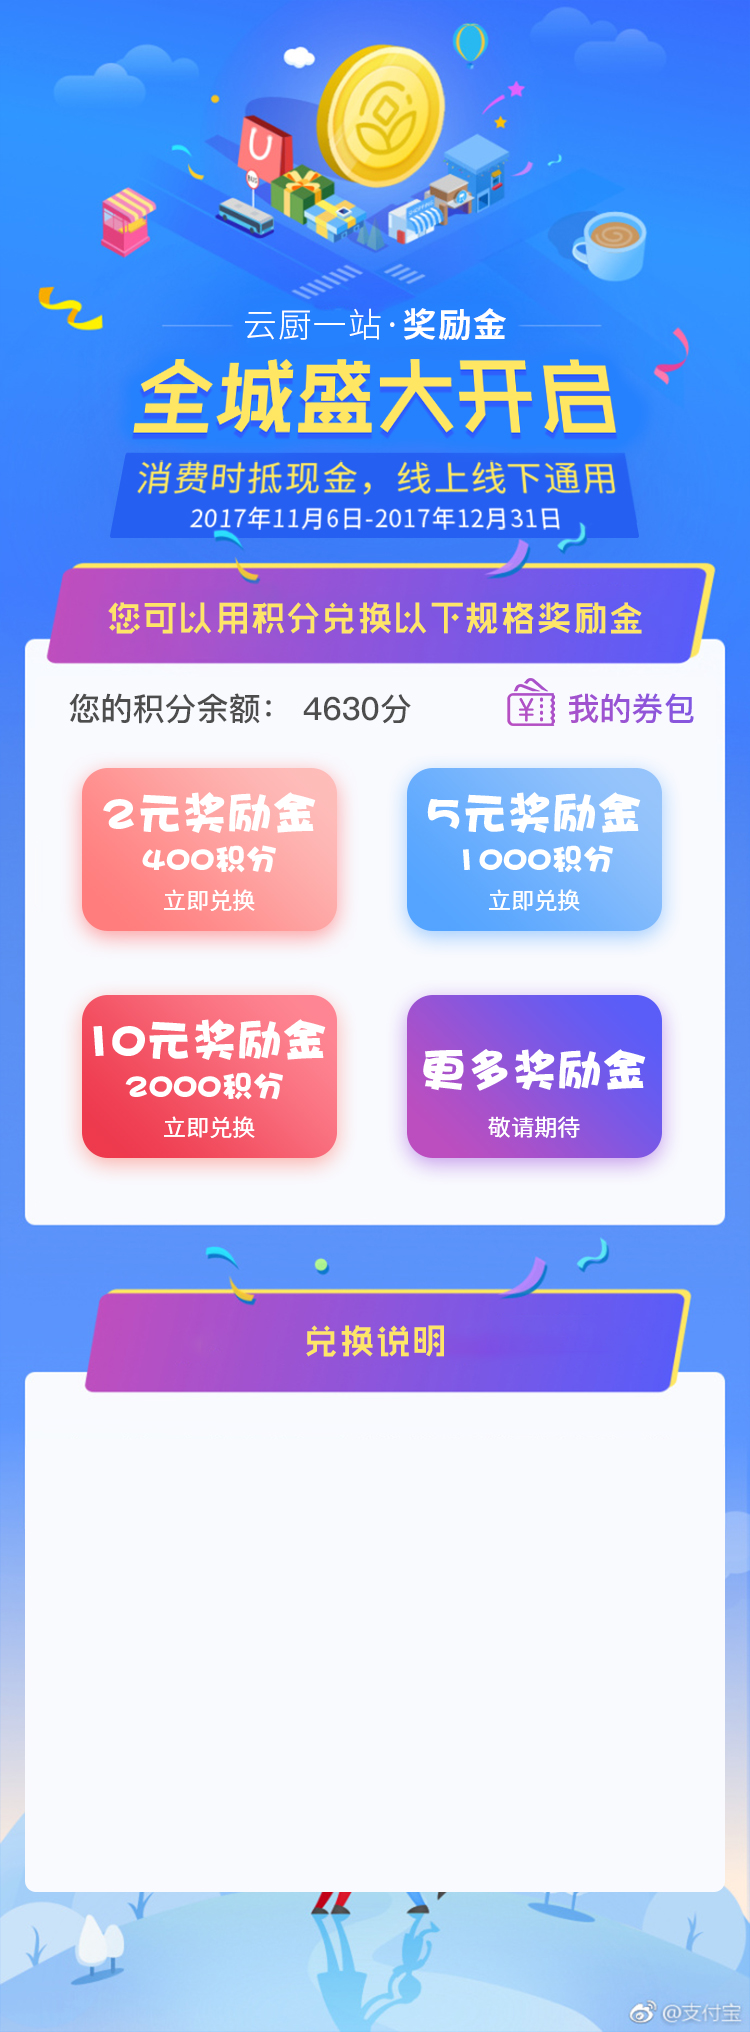
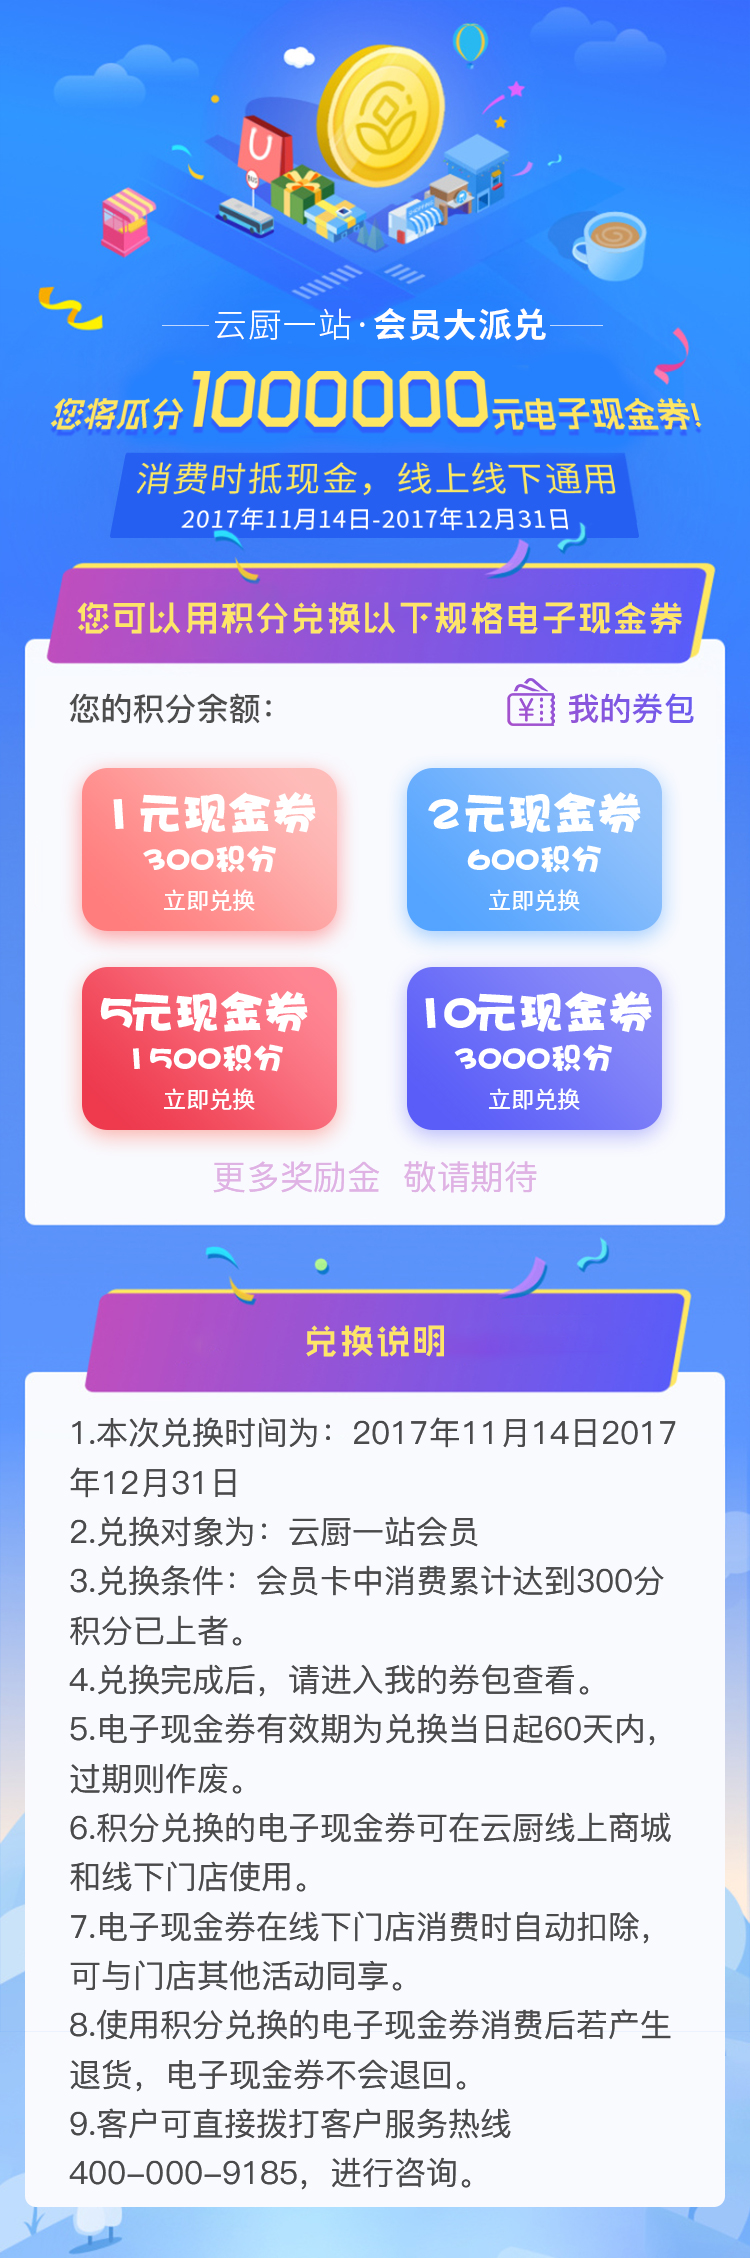
积分兑换

diff --git a/babuluo/web/app/marketing/coupon/rule/ruleList/index.html b/babuluo/web/app/marketing/coupon/rule/ruleList/index.html
@@ -15,6 +15,7 @@
                         </option>
                         <option class="nya-bs-option" value="1">减价</option>
                         <option class="nya-bs-option" value="2">打折</option>
+                        <option class="nya-bs-option" value="3">电子现金金</option>
 
                     </select>
                 </div> <!-- select-center  -->
@@ -49,9 +50,10 @@
                     </td><!--规格名称-->
                     <td ng-if="item['COUPON_RULE.TYPE']==1">减价</td> <!--规格类型-减-->
                     <td ng-if="item['COUPON_RULE.TYPE']==2">打折</td> <!--规格类型-折-->
+                    <td ng-if="item['COUPON_RULE.TYPE']==3">电子现金金</td> <!-- 电子现金金 -->
                     <td ng-bind="item['COUPON_RULE.INTRO']"></td> <!--规则描述-->
                     <td class="text-center">
-                        <span ng-if="item['COUPON_RULE.TYPE']==1">{{(item['COUPON_RULE.FACE_VALUE']/100).toFixed(2)}}元</span>
+                        <span ng-if="item['COUPON_RULE.TYPE']==1 || item['COUPON_RULE.TYPE']==3">{{(item['COUPON_RULE.FACE_VALUE']/100).toFixed(2)}}元</span>
                         <span ng-if="item['COUPON_RULE.TYPE']==2">{{(item['COUPON_RULE.FACE_VALUE']/10).toFixed(1)}}折</span>
                     </td> <!--面值-->
                     <td class="text-center">
@@ -110,6 +112,7 @@
                                     class="nya-bs-select form-control">
                                 <option class="nya-bs-option" value='1'>减价</option>
                                 <option class="nya-bs-option" value='2'>打折</option>
+                                <option class="nya-bs-option" value='3'>电子现金金</option>
                             </select>
                         </div>
                     </div>
@@ -127,7 +130,7 @@
                     <div class="form-group row">
                         <label class="col-md-3 control-label">
                             <span class="required"> 面值 </span>
-                            <span ng-bind="add['COUPON_RULE.TYPE']==1?'（元）':'（折）'"></span>
+                            <span ng-bind="add['COUPON_RULE.TYPE']==2?'（折）':'（元）'"></span>
                             <!--<span ng-if="mod['COUPON_RULE.TYPE']==2">（折）</span>-->
                         </label>
 
@@ -221,6 +224,7 @@
                                     class="nya-bs-select form-control">
                                 <option class="nya-bs-option" value='1'>减价</option>
                                 <option class="nya-bs-option" value='2'>打折</option>
+                                <option class="nya-bs-option" value='3'>电子现金金</option>
                             </select>
                         </div>
                     </div>
@@ -237,7 +241,7 @@
                     <div class="form-group row">
                         <label class="col-md-3 control-label">
                             <span class="required"> 面值 </span>
-                            <span ng-bind="mod['COUPON_RULE.TYPE']==1?'（元）':'（折）'"></span>
+                            <span ng-bind="mod['COUPON_RULE.TYPE']==2?'（折）':'（元）'"></span>
                             <!-- <span ng-if="mod['COUPON_RULE.TYPE']==1">（元）</span>
                              <span ng-if="mod['COUPON_RULE.TYPE']==2">（折）</span>-->
                         </label>

diff --git a/babuluo/web/h5/pages/home/index.html b/babuluo/web/h5/pages/home/index.html
@@ -137,7 +137,19 @@
      margin-top: -12px;  float: right;" ng-click="goSeckill(seckill)" >立即抢购</button>
         </div>
     </div>
-
+    
+    <!-- 活动专区 -->
+     <div class="item-title"  ng-if="activityList.length>0"    style="    font-size: 20px;line-height: 50px;margin-bottom: 0; text-align: center; height: 50px;">
+                <i class="icon-wrap icon-luwei" style="height: 20px;width: 20px; display: inline-block;    background: url('../../public/img/activity.png');background-size:100%" ></i>
+              
+                <span style="border-bottom: 1px solid rgb(245,169,24); padding: 0 15px 5px;    font-size: 20px;line-height: 50px;margin-bottom: 0;text-align: center; height: 50px;">活动专区</span>
+   </div> 
+        <div class="product-content" ng-repeat="item in activityList">
+            <a ng-if="item['is_show']==true" ng-href="{{item['BANNER.URL']}}">
+            <img
+                    ng-src="{{FILE_SERVER_DOMAIN+item['BANNER.PICTURE']+'?x-oss-process=image/resize,w_750'}}"
+                    style="height: auto;width: 100%;"></a>
+        </div>
 
     <!-- 团购 -->
 
@@ -147,8 +159,7 @@
                     <span style="border-bottom: 1px solid rgb(245,169,24); padding: 0 15px 5px;    font-size: 20px;line-height: 50px;margin-bottom: 0;text-align: center; height: 50px;">预约商品</span>
        </div>  
                 
-    <div class="group" ng-repeat="item in groupList" ng-if="item['is_show']==true">
-
+    <div class="group" ng-repeat="item in groupList" ng-if="item['is_show']==true" style="margin-bottom: 10px;">
         <a ng-href="{{item['BANNER.URL']}}">
             <img ng-if="item['is_show']==true"
                  ng-src="{{FILE_SERVER_DOMAIN+item['BANNER.PICTURE']+'?x-oss-process=image/resize,w_750'}}"
@@ -157,12 +168,6 @@
 
     <!-- 活动专区 -->
     <div class="product-wrap">
-        <div class="headTitle" ng-if="activityList.length>0">活动专区</div>
-        <div class="product-content" ng-repeat="item in activityList">
-            <a ng-if="item['is_show']==true" ng-href="{{item['BANNER.URL']}}"><img
-                    ng-src="{{FILE_SERVER_DOMAIN+item['BANNER.PICTURE']+'?x-oss-process=image/resize,w_750'}}"
-                    style="height: auto;width: 100%;"></a>
-        </div>
 
         <!-- BEGIN 今日推荐 -->
         <div class="product-special" style="font-size: 0;"
@@ -360,3 +365,28 @@
     </div>
 
 </div>
+<script>
+var _hmt = _hmt || [];
+(function() {
+  var hm = document.createElement("script");
+  hm.src = "https://hm.baidu.com/hm.js?10d86961f13f568fa9bded341229b215";
+  var s = document.getElementsByTagName("script")[0]; 
+  s.parentNode.insertBefore(hm, s);
+})();
+</script>
+<script type='text/javascript'>
+      var _vds = _vds || [];
+      window._vds = _vds;
+      (function(){
+        _vds.push(['setAccountId', '96f7be9d5db84660']);
+        (function() {
+          var vds = document.createElement('script');
+          vds.type='text/javascript';
+          vds.async = true;
+          vds.src = ('https:' == document.location.protocol ? 'https://' : 'http://') + 'dn-growing.qbox.me/vds.js';
+          var s = document.getElementsByTagName('script')[0];
+          s.parentNode.insertBefore(vds, s);
+        })();
+      })();
+  </script>
+  <script type='text/javascript' src='https://assets.growingio.com/sdk/wx/vds-wx-plugin.js'></script>

diff --git a/babuluo/web/h5/pages/temporary/bonus/index.html b/babuluo/web/h5/pages/temporary/bonus/index.html
@@ -1,55 +1,69 @@
 <style>
-.bonus a {
+@media screen and (min-width:410px) and (max-width:420px) {
+		body,
+		html {
+			font-size: 14px !important
+		}
+	}
+	
+	.bonus a {
 		position: absolute;
 	}
 	
 	.bonus .integral {
 		white-space: nowrap;
-		background: red;
-		top: 34%;
+	
+		top: 30.6%;
 		left: 40%;
 		font-size: 17px;
 	}
 	
 	.bonus .jifen {
 		width: 34%;
-		background: red;
+	
 		height: 7rem;
 	}
 	
 	.bonus .two {
-		top: 38%;
+		 top: 34%;
 		left: 11%;
 	}
 	
 	.bonus .five {
-		top: 38%;
+		top: 34%;
 		left: 54%;
 	}
 	
 	.bonus .ten {
-		top: 49%;
+		top: 43%;
 		left: 11%;
 	}
-	
+	 
 	.bonus .cards {
 		width: 25%;
-		background: red;
+	
 		height: 2.3rem;
-		top: 33%;
+		top: 30%;
 		left: 67%;
+	}
+	.bonus .tens{
+		top: 43%;
+		left: 54%;
 	}
 }
 </style>
-<div>
+
+</script>
+<div id="wrapper" >
 
 	<div style="position: relative;" class="bonus">
 		<img src="../temporary/bonus/back.jpg" width="100%" />
 		<a class="integral"><span ng-bind-template="{{jifen}}">4432</span><span ng-model="ss">分</span></a>
-		<a class="cards" ui-sref="pages/temporary/list"></a>
-		<a class="two jifen">4432</a>
-		<a class="five jifen">442</a>
-		<a class="ten jifen">44 2</a>
+		<a class="cards" ui-sref="pages/personal/coupon"></a>
+		<a class="two jifen" ng-click="exchange(3019)"></a>
+		<a class="five jifen"  ng-click="exchange(3020)"></a>
+		<a class="ten jifen"  ng-click="exchange(3021)"></a>
+		<a class="tens jifen"  ng-click="exchange(3022)"></a>
 
 	</div>
 

diff --git a/babuluo/web/h5/pages/temporary/bonus/controller.js b/babuluo/web/h5/pages/temporary/bonus/controller.js
@@ -1,8 +1,35 @@
-angular.module('AndSell.H5.Main').controller('pages_temporary_bonus_Controller', function ($scope, $state, $stateParams, eventFactory,weUI) {
 
-	eventFactory.getjifen({}, function (response) {
+
+
+
+
+angular.module('AndSell.H5.Main').controller('pages_temporary_bonus_Controller', function ($scope, $state, $stateParams,modalFactory, eventFactory,weUI) {
+	  modalFactory.setTitle('积分兑换优惠卷');
+	  modalFactory.setBottom(true);
+	  eventFactory.getjifen({}, function (response) {
 	  	$scope.jifen=response.data[0]['MEMBER_ACCOUNT.POINT']
 	  })
+	  $scope.exchange=function(id){
+		function getCookie(name)
+		{
+		var arr,reg=new RegExp("(^| )"+name+"=([^;]*)(;|$)");
+		if(arr=document.cookie.match(reg))
+		return unescape(arr[2]);
+		else
+		return null;
+		}
+	  weUI.dialog.confirm("提示", "是否确认兑换", function () {
+		  eventFactory.exchanges({'MEMBER_COUPON.USER_ID':getCookie('ANDSELLID'),'MEMBER_COUPON.COUPON_ID':id}, function (response) {
+              weUI.dialog.alert('兑换成功');
+              eventFactory.getjifen({}, function (response) {
+          	  	$scope.jifen=response.data[0]['MEMBER_ACCOUNT.POINT']
+          	  });
+            },function(response){
+            	 weUI.dialog.alert(response.msg);
+            });
+        });
+	}
+
 });
 
 

diff --git a/babuluo/web/h5/pages/home/controller.js b/babuluo/web/h5/pages/home/controller.js
@@ -222,13 +222,13 @@ angular.module('AndSell.H5.Main').controller('pages_home_Controller', function (
                 if (ele['BANNER.END_DATETIME'] == null && ele['BANNER.BEGIN_DATETIME'] == null) {
                     ele['is_show'] = true;
                 } else if (ele['BANNER.BEGIN_DATETIME'] != null) {
-                    var startTime = new Date(ele['BANNER.BEGIN_DATETIME'].split('.')[0]).getTime();    //开始时间
+                    var startTime = new Date(ele['BANNER.BEGIN_DATETIME'].split('.')[0].replace(/\-/g, "/")).getTime();    //开始时间
                     var currentTime = new Date().getTime();      //当前时间 毫秒
                     if (currentTime > startTime) {
                         if (ele['BANNER.BEGIN_DATETIME'] == null) {
                             ele['is_show'] = true;
                         } else {
-                            var endTime = new Date(ele['BANNER.END_DATETIME'].split('.')[0]).getTime();      //结束时间
+                            var endTime = new Date(ele['BANNER.END_DATETIME'].split('.')[0].replace(/\-/g, "/")).getTime();      //结束时间
                             if (currentTime < endTime) {
                                 ele['is_show'] = true;
                             }

diff --git a/babuluo/web/h5/pages/order/addCoupon/index.html b/babuluo/web/h5/pages/order/addCoupon/index.html
@@ -7,7 +7,7 @@
         <div class="coupon-head">
             <div class="coupon-info">
                 <p class="couponType">{{item['MEMBER_COUPON.COUPON_INFO']['COUPON.NAME']}}</p>
-                <p class="couponTime" ng-if="item['MEMBER_COUPON.COUPON_INFO']['COUPON.END_DATETIME']!=null">有效期至<span>{{item['MEMBER_COUPON.COUPON_INFO']['COUPON.END_DATETIME']|FormatAllDate}}</span></span>
+                <p class="couponTime" ng-if="item['MEMBER_COUPON.COUPON_INFO']['COUPON.END_DATETIME']!=null">有效期至<span>{{item['MEMBER_COUPON.EXPIRED_TIME']|FormatAllDate}}</span></span>
                 </p>
                 <div class="coupon-value">
                     <span ng-if="item['MEMBER_COUPON.COUPON_INFO']['COUPON.RULE_INFO']['COUPON_RULE.TYPE']==1">

diff --git a/babuluo/web/app/main/main_index.html b/babuluo/web/app/main/main_index.html
@@ -809,7 +809,7 @@
 <script src="/AndSell/app/marketing/banner/banner-services.js"></script><!--横幅-->
 <script src="/AndSell/app/demo/demo/demo-services.js"></script><!--demo 示例使用-->
 <script src="/AndSell/app/demo/demo2/demo2-services.js"></script><!--demo2 示例使用-->
-<script src="/AndSell/app/point/point/point-services.js"></script><!--demo2 示例使用-->
+<script src="/AndSell/app/point/point-services.js"></script><!--demo2 示例使用-->
 <script src="/AndSell/app/balance/balance/balance-services.js"></script><!--资金示例使用-->
 <script src="/AndSell/app/card/card/card-services.js"></script><!--demo2 示例使用-->
 <script src="/AndSell/app/order/order/order-services.js"></script><!--demo2 示例使用-->

diff --git a/babuluo/web/h5/pages/personal/coupon/index.html b/babuluo/web/h5/pages/personal/coupon/index.html
@@ -37,7 +37,8 @@
                 </p>
                 <p class="limit-time"
                    ng-if="item['MEMBER_COUPON.COUPON_INFO']['COUPON.USE_TIME_CYCLE']=='0,0,0,0,0,0,0'">
-                    <span>正价商品可用</span>
+                    <span ng-if="item['MEMBER_COUPON.COUPON_INFO']['COUPON.RULE_INFO']['COUPON_RULE.TYPE'] !=3">正价商品可用</span>
+                    <span ng-if="item['MEMBER_COUPON.COUPON_INFO']['COUPON.RULE_INFO']['COUPON_RULE.TYPE'] ==3">线上线下可用</span>
                 </p>
                 <p class="limit-class">
                     <span ng-if="item['MEMBER_COUPON.COUPON_INFO']['COUPON.TARGET_OBJ_TYPE']==1">特定商品使用

diff --git a/babuluo/web/h5/pages/order/addCoupon/controller.js b/babuluo/web/h5/pages/order/addCoupon/controller.js
@@ -126,7 +126,7 @@ angular.module('AndSell.H5.Main').controller('pages_order_addCoupon_Controller',
             //读取到选中的优惠券的面值
             var faceValue = $scope.selectItem['MEMBER_COUPON.COUPON_INFO']['COUPON.RULE_INFO']['COUPON_RULE.FACE_VALUE'];
             var type = $scope.selectItem['MEMBER_COUPON.COUPON_INFO']['COUPON.RULE_INFO']['COUPON_RULE.TYPE'];
-            if (type == '1') {   //减价
+            if (type == '1' || type == '3') {   //减价
                 $scope.money = (faceValue / 100).toFixed(2);
             } else if (type == '2') {  //打折
                 // console.log(456);

diff --git a/babuluo/web/h5/pages/account/account-services.js b/babuluo/web/h5/pages/account/account-services.js
@@ -13,7 +13,7 @@ AndSellH5MainModule.service('eventFactory', function (http) {
 	this.getCoupond= http.post('/point/coupon/getById');
 	this.getList= http.post('/offline/coupon/queryByUserId');
 	this.exchange= http.post('/offline/coupon/add');
-	
+	this.exchanges= http.post('/member/coupon/getCouponByPoint');
 	
 	
     this.getEventByType = http.post('/sales/event/getByType');
@@ -24,6 +24,7 @@ AndSellH5MainModule.service('eventFactory', function (http) {
 
 
     this.getCouponInfo = http.post('/coupon/coupon/getById');
+    
   
 
 });

diff --git a/babuluo/web/app/marketing/coupon/rule/ruleList/controllers.js b/babuluo/web/app/marketing/coupon/rule/ruleList/controllers.js
@@ -25,7 +25,7 @@ angular.module('AndSell.Main').controller('marketing_coupon_rule_ruleList_Contro
 
         $scope.mod = clone(item);
         $scope.mod['COUPON_RULE.ID'] = item['COUPON_RULE.ID'];
-        if (item['COUPON_RULE.TYPE'] == 1) {
+        if (item['COUPON_RULE.TYPE'] == 1 || item['COUPON_RULE.TYPE'] == 3) {
             $scope.mod['COUPON_RULE.FACE_VALUE'] = (item['COUPON_RULE.FACE_VALUE']
             / 100).toFixed(2);
         } else {

diff --git a/babuluo/src/com/bolanggu/bbl/output/outputFinanceQuery.java b/babuluo/src/com/bolanggu/bbl/output/outputFinanceQuery.java
@@ -217,8 +217,8 @@ public class outputFinanceQuery {
 			+" g.SHOP_NAME AS `FINANCE_LIST.CARD_SHOP`,"
 			+" a.OPER_USER_ID AS `FINANCE_LIST.OPER_USER_ID`,"
 			+" a.EVENT_INTRO AS `FINANCE_LIST.EVENT_INTRO`,"
-			+" FORMAT(a.CHANGE_ACCOUNT_VALUE/100,2) AS `FINANCE_LIST.CHANGE_ACCOUNT_VALUE`,"
-			+" FORMAT(a.CHANGE_GIFT_VALUE/100,2) AS `FINANCE_LIST.CHANGE_GIFT_VALUE`"
+			+" a.CHANGE_ACCOUNT_VALUE/100 AS `FINANCE_LIST.CHANGE_ACCOUNT_VALUE`,"
+			+" a.CHANGE_GIFT_VALUE/100 AS `FINANCE_LIST.CHANGE_GIFT_VALUE`"
 			+" FROM finance_list a "
 			+" LEFT JOIN member b ON a.USER_ID=b.USER_ID"
 			+" LEFT JOIN member_info c ON a.USER_ID=c.USER_ID "
@@ -357,10 +357,12 @@ public class outputFinanceQuery {
                 SXSSFCell cell16 = row.createCell(15);
                 cell16.setCellValue(
                 		NumFormat.format(rs.getDouble("FINANCE_LIST.CHANGE_ACCOUNT_VALUE")));
+
                 cell16.setCellStyle(cellStyle);
                 SXSSFCell cell17 = row.createCell(16);
                 cell17.setCellValue(
                 		NumFormat.format(rs.getDouble("FINANCE_LIST.CHANGE_GIFT_VALUE")));
+
                 cell17.setCellStyle(cellStyle);
                 SXSSFCell cell14 = row.createCell(17);
                 cell14.setCellValue(Balance);
